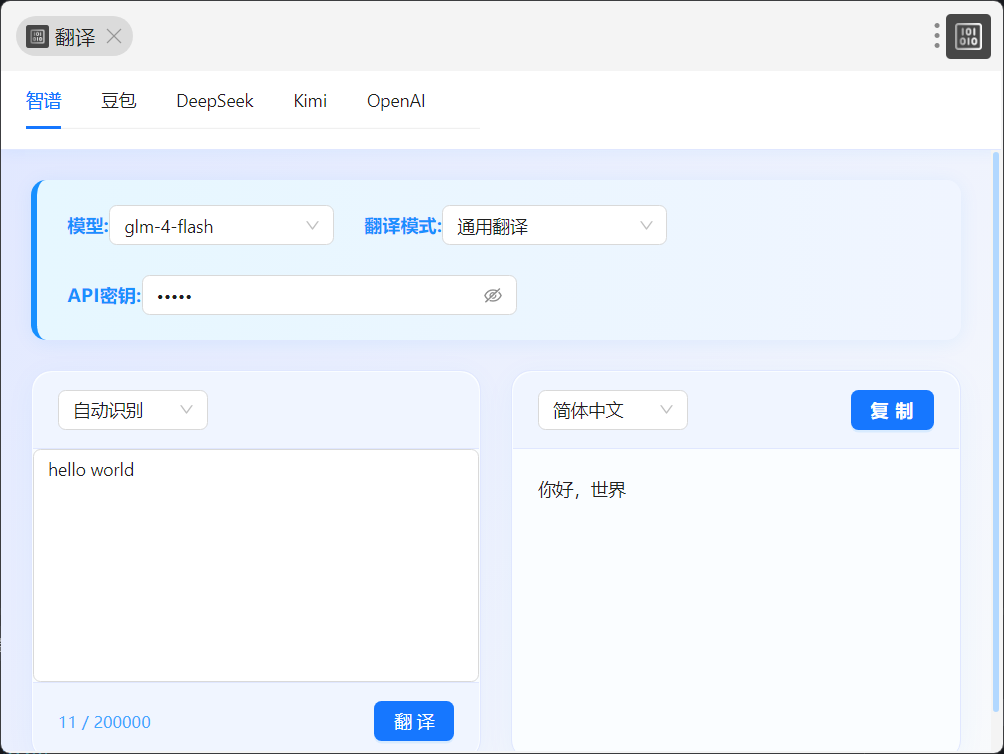
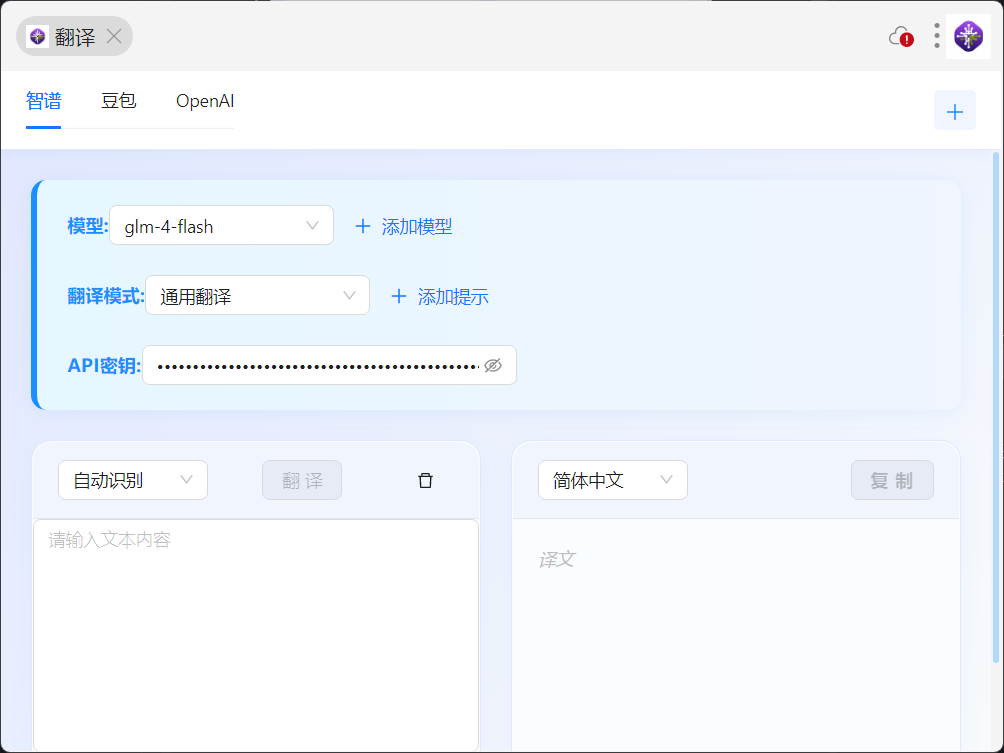
refactor: 补充readme

diff --git a/README.md b/README.md
@@ -1,1 +1,7 @@
+# utools中的翻译插件
+## 插件主界面
 ![1744824482828](./public/1744824482828.png)
+## glm-4-flash 模型
+免费模型，需要去获取api密钥 https://bigmodel.cn/
+## 豆包
+需要去火山引擎中的火山方舟获取 api 密钥 https://www.volcengine.com/
